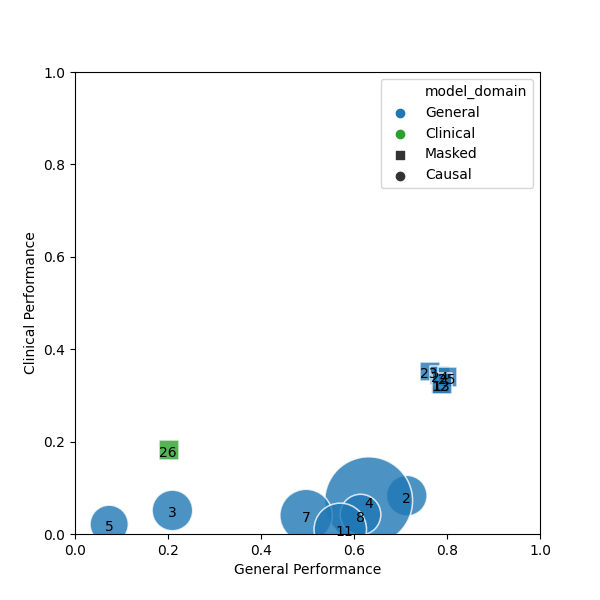
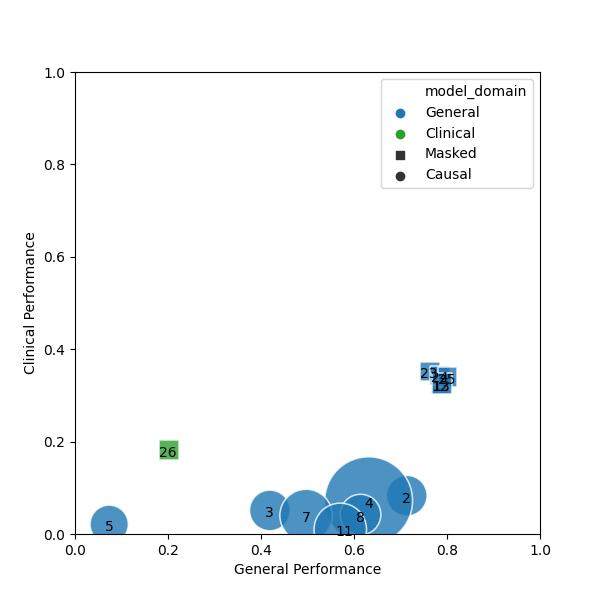
res

Changed region(s): [[0.24, 0.81, 0.33, 0.9], [0.42, 0.81, 0.48, 0.9]]

diff --git a/result_tabs_and_plots/results_table.tex b/result_tabs_and_plots/results_table.tex
@@ -8,7 +8,7 @@
 \midrule
 \multirow{11}{*}{\rotatebox[origin=c]{90}{Causal}} & 1 & LLAMA-70B & 0.728 & 0.721 & - & 0.309 & - & - & - & - & 0.201 & 0.312 & - & - & - & - \\
  & 2 & Mistral-7B & 0.754 & 0.645 & 0.488 & 0.291 & - & 0.727 & - & 0.59 & 0.229 & 0.333 & 0.72 & 0.707 & 0.083 & - \\
- & 3 & BLOOM-7B1 & 0.524 & 0.557 & 0.279 & 0.113 & - & 0.143 & - & 0.32 & 0.197 & 0.12 & 0.0 & 0.419 & 0.051 & - \\
+ & 3 & BLOOM-7B1 & 0.524 & 0.557 & 0.279 & 0.113 & - & - & - & 0.32 & 0.197 & 0.12 & - & 0.419 & 0.051 & - \\
  & 4 & Falcon-40B & 0.686 & 0.708 & 0.28 & 0.279 & - & 0.662 & - & 0.378 & - & 0.283 & 0.72 & 0.543 & 0.072 & - \\
  & 5 & GPT-J-6B & 0.521 & 0.493 & 0.167 & 0.179 & - & 0.423 & - & 0.334 & 0.08 & 0.177 & 0.005 & 0.142 & 0.021 & - \\
  & 6 & OPT-66B & - & 0.495 & - & 0.157 & - & - & - & - & 0.206 & 0.283 & - & - & - & - \\
@@ -39,6 +39,6 @@
 \midrule
  & & RoBERTa-large & 0.919 & 0.939 & 0.718 & 0.712 & - & - & - & - & - & - & - & - & - & - \\
  & & CamemBERT-large & - & - & - & - & - & - & - & - & 0.748 & 0.713 & - & - & - & - \\
- & & BETO & - & - & - & - & - & - & - & - & - & - & 0.918 & 0.881 & - & - \\
+ & & BETO & - & - & - & - & - & - & - & - & - & - & 0.918 & 0.881 & 0.411 & - \\
 \bottomrule
 \end{tabular}}
